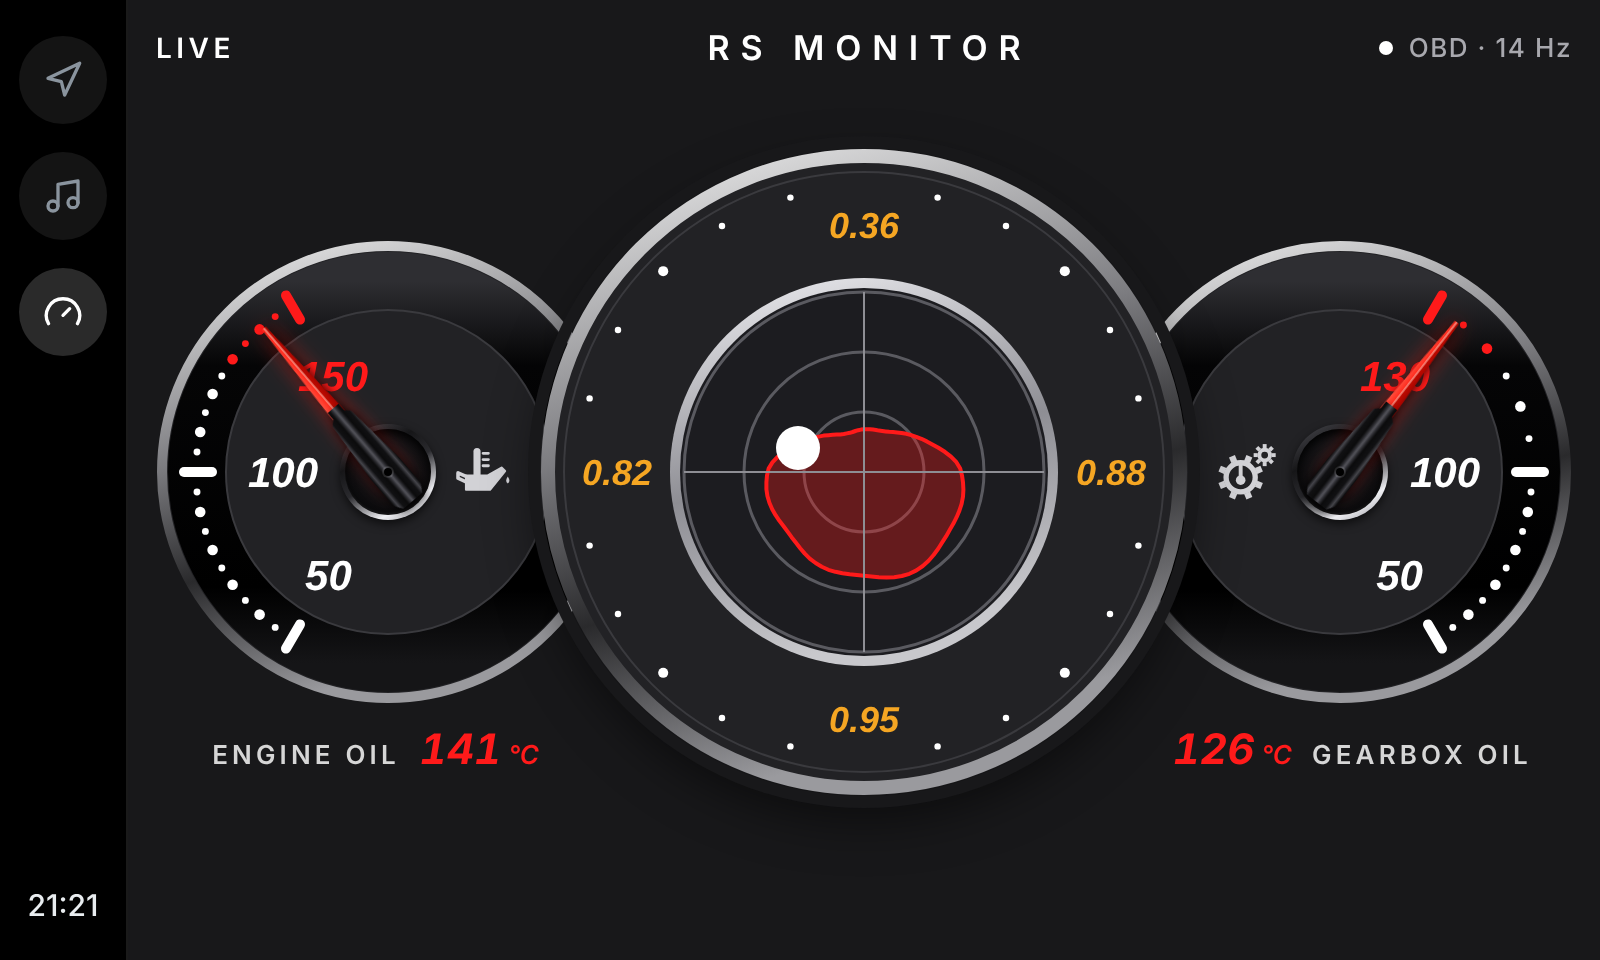
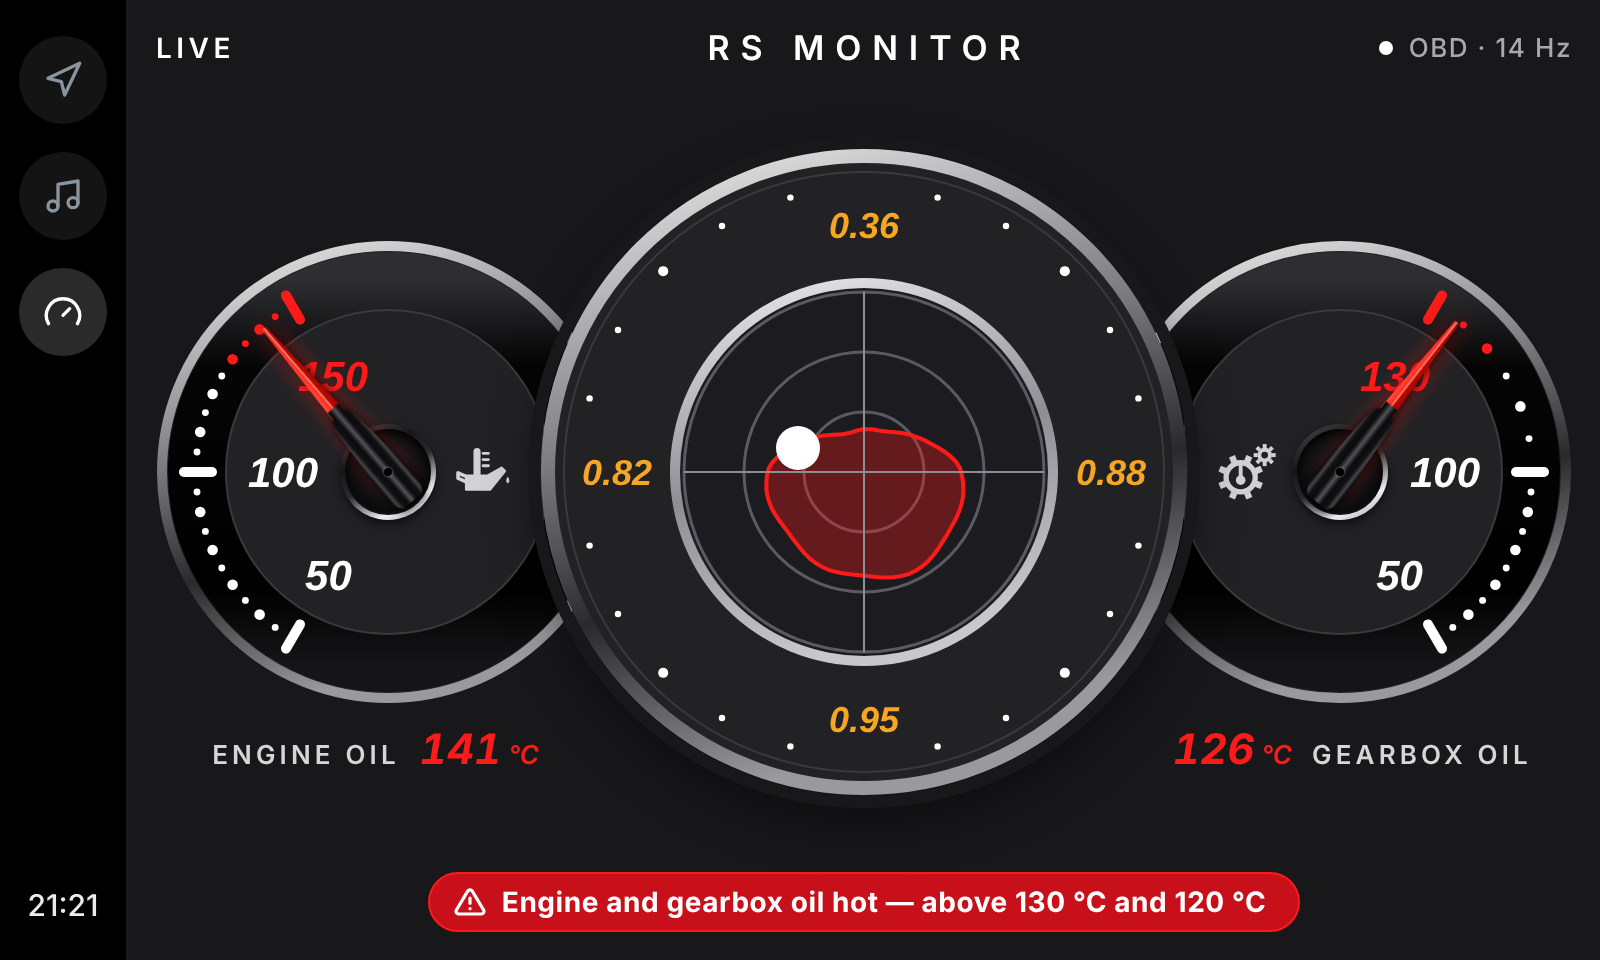
Add a warning notice to the hot screen
The hot state now shows a filled red notice in the bottom slot,
deliberately bolder than the cold one. Generator takes a state
('cold' or 'hot') for the notice; preview and README updated.

Claude-Session: https://claude.ai/code/session_01JRCqJLUzwoXWWnQcu1ek3X

Changed region(s): [[0.25, 0.9062, 0.8125, 0.9688]]

diff --git a/design/Hot.dc.html b/design/Hot.dc.html
@@ -174,7 +174,10 @@ button:focus-visible,a:focus-visible{outline:2px solid #FFFFFF;outline-offset:2p
 </div>
 </div>
 </div>
-<div style="height: 30px; flex-shrink: 0; display: flex; align-items: center; justify-content: center"></div>
+<div style="height: 30px; flex-shrink: 0; display: flex; align-items: center; justify-content: center"><div role="status" style="display: flex; align-items: center; gap: 8px; height: 30px; box-sizing: border-box; padding: 0 16px 0 12px; border: 1px solid #FF1A1A; border-radius: 15px; background: #C8101A; font-size: 14px; font-weight: 700; letter-spacing: 0.02em; color: #FFFFFF; white-space: nowrap">
+<svg width="16" height="16" viewBox="0 0 24 24" fill="none" stroke="#FFFFFF" stroke-width="2.4" stroke-linecap="round" stroke-linejoin="round" aria-hidden="true"><path d="M10.3 3.9 1.8 18a2 2 0 0 0 1.7 3h17a2 2 0 0 0 1.7-3L13.7 3.9a2 2 0 0 0-3.4 0z"></path><path d="M12 9v4"></path><path d="M12 17h.01"></path></svg>
+Engine and gearbox oil hot — above 130 °C and 120 °C
+</div></div>
 </main>
 </div>
 </x-dc>

diff --git a/tools/gen_gauges.py b/tools/gen_gauges.py
@@ -204,13 +204,29 @@ def gmeter(peaks):
 </div>'''
 
 
-def page(title, oil, gear, lat, lon, peaks, cold):
-    notice = ''
-    if cold:
-        notice = f'''<div role="status" style="display: flex; align-items: center; gap: 8px; height: 30px; box-sizing: border-box; padding: 0 16px 0 12px; border: 1px solid {LINE}; border-radius: 15px; background: {FACE}; font-size: 13px; font-weight: 500; color: {INK2}; white-space: nowrap">
-<svg width="16" height="16" viewBox="0 0 24 24" fill="none" stroke="{INK}" stroke-width="2" stroke-linecap="round" stroke-linejoin="round" aria-hidden="true"><path d="M14 14.76V3.5a2.5 2.5 0 0 0-5 0v11.26a4.5 4.5 0 1 0 5 0z"></path></svg>
-Engine and gearbox still cold — oil below 80 °C
+THERMOMETER = '<path d="M14 14.76V3.5a2.5 2.5 0 0 0-5 0v11.26a4.5 4.5 0 1 0 5 0z"></path>'
+WARNING = '<path d="M10.3 3.9 1.8 18a2 2 0 0 0 1.7 3h17a2 2 0 0 0 1.7-3L13.7 3.9a2 2 0 0 0-3.4 0z"></path><path d="M12 9v4"></path><path d="M12 17h.01"></path>'
+HOT_FILL = "#C8101A"   # warning fill: white text on it passes 4.5:1
+
+
+def notice_pill(kind):
+    """The pill in the bottom slot. 'cold' is quiet; 'hot' is a filled warning."""
+    if kind == 'cold':
+        edge, fill, type_ = LINE, FACE, f"font-size: 13px; font-weight: 500; color: {INK2}"
+        glyph, stroke, text = THERMOMETER, 2, "Engine and gearbox still cold — oil below 80 °C"
+    elif kind == 'hot':
+        edge, fill, type_ = HOT, HOT_FILL, f"font-size: 14px; font-weight: 700; letter-spacing: 0.02em; color: {INK}"
+        glyph, stroke, text = WARNING, 2.4, "Engine and gearbox oil hot — above 130 °C and 120 °C"
+    else:
+        return ''
+    return f'''<div role="status" style="display: flex; align-items: center; gap: 8px; height: 30px; box-sizing: border-box; padding: 0 16px 0 12px; border: 1px solid {edge}; border-radius: 15px; background: {fill}; {type_}; white-space: nowrap">
+<svg width="16" height="16" viewBox="0 0 24 24" fill="none" stroke="{INK}" stroke-width="{stroke}" stroke-linecap="round" stroke-linejoin="round" aria-hidden="true">{glyph}</svg>
+{text}
 </div>'''
+
+
+def page(title, oil, gear, lat, lon, peaks, state=None):
+    notice = notice_pill(state)
     return f'''<!doctype html>
 <html lang="en">
 <head>
@@ -272,6 +288,6 @@ class Component extends DCLogic {{
 '''
 
 
-open(f'{OUT}/Main.dc.html', 'w').write(page('RS Monitor — driving', 104, 88, 0.62, -0.28, (0.36, 0.88, 0.95, 0.82), False))
-open(f'{OUT}/Warmup.dc.html', 'w').write(page('RS Monitor — cold start', 46, 38, 0.02, 0.01, (0.08, 0.10, 0.12, 0.09), True))
-open(f'{OUT}/Hot.dc.html', 'w').write(page('RS Monitor — hot', 141, 126, -0.55, 0.20, (0.36, 0.88, 0.95, 0.82), False))
+open(f'{OUT}/Main.dc.html', 'w').write(page('RS Monitor — driving', 104, 88, 0.62, -0.28, (0.36, 0.88, 0.95, 0.82)))
+open(f'{OUT}/Warmup.dc.html', 'w').write(page('RS Monitor — cold start', 46, 38, 0.02, 0.01, (0.08, 0.10, 0.12, 0.09), 'cold'))
+open(f'{OUT}/Hot.dc.html', 'w').write(page('RS Monitor — hot', 141, 126, -0.55, 0.20, (0.36, 0.88, 0.95, 0.82), 'hot'))

diff --git a/README.md b/README.md
@@ -64,7 +64,9 @@ python3 tools/render_preview.py design design/preview
 
 - **Cold start:** notice "Engine and gearbox still cold — oil below 80 °C".
 - **Driving:** no notice.
-- **Hot:** the reading turns red once the oil is in its hot zone. There is no hot notice yet.
+- **Hot:** the reading turns red once the oil is in its hot zone, and a filled red warning
+  notice appears: "Engine and gearbox oil hot — above 130 °C and 120 °C". It is deliberately
+  bolder than the cold notice. The wording for only one oil being hot is not written yet.
 
 **Scales**
 
@@ -97,6 +99,7 @@ python3 tools/render_preview.py design design/preview
 | Hairlines | `#3A3A3E` |
 | Text | `#FFFFFF`, labels `#D6D6D6`, secondary `#A8A8AE` |
 | Hot zone, hot reading, G trace | `#FF1A1A` |
+| Hot notice fill | `#C8101A` |
 | G-meter peak numbers, "waiting" in the console | `#F5A623` |
 
 Saira throughout; numbers are bold italic at 112.5% width. The console log uses JetBrains Mono.
@@ -122,4 +125,4 @@ Auto showing live RPM.
 2. **The data IDs for engine oil temperature and gearbox oil temperature** are not known yet.
    They have to be found on the car and checked against VCDS.
 3. **Which Bluetooth adapter** will be used (classic Bluetooth or Bluetooth Low Energy).
-4. **Whether the hot state needs its own notice**, like the cold one.
+4. **Hot notice wording when only one oil is hot** (engine only, gearbox only).
